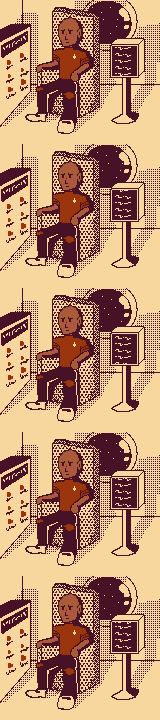
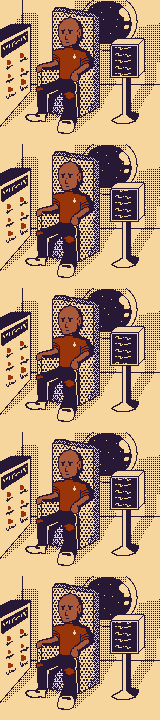
far from great but it does... something

diff --git a/src/stage/systems/mod.rs b/src/stage/systems/mod.rs
@@ -15,7 +15,7 @@ use crate::{
     globals::DEBUG_STAGESTEP,
     resource::{asteroid::STAGE_ASTEROID_DATA, debug::STAGE_DEBUG_DATA, park::STAGE_PARK_DATA},
     systems::{audio::VolumeSettings, camera::CameraPos, spawn::spawn_music},
-    GBInput,
+    GBInput, cinemachine::cinemachine::CinemachineScene,
 };
 
 use self::spawn::{spawn_destructible, spawn_enemy, spawn_object, spawn_pickup};
@@ -229,7 +229,27 @@ pub fn update_stage(
                             }
                             spawnsVal = Some(spawns);
                         }
-                        StageStep::Cinematic { .. } => {}
+                        StageStep::Cinematic { cinematic, ..} => {
+                            let max_duration = Some(cinematic.clip.waitInSeconds);
+                            
+                            if let Some(duration) = max_duration {
+                            } else {
+                                // DEBUG
+
+                                if DEBUG_STAGESTEP {
+                                    let mut duration = 0.;
+                                    if max_duration.is_some() {
+                                        duration = max_duration.unwrap();
+                                    }
+                                    warn!(
+                                        "================>>>> cinematic complete? {}",
+                                        duration.to_string()
+                                    );
+                                }
+                                step_event_writer.send(StageStepTrigger {});
+                            }
+
+                        },
                     }
 
                     if let Some(spawns) = spawnsVal {
@@ -316,6 +336,8 @@ pub fn read_stage_step_trigger(
     mut stage_progress: ResMut<StageProgress>,
     mut stage_action_timer: ResMut<StageActionTimer>,
     mut stage_data_raw: Res<StageRawData>,
+    mut game_state_next_state: ResMut<NextState<GameState>>,
+    mut current_scene: ResMut<CinemachineScene>,
 ) {
     for _ in event_reader.iter() {
         stage_progress.step += 1;
@@ -339,7 +361,10 @@ pub fn read_stage_step_trigger(
                             stage_action_timer.timer.unpause();
                         }
                     }
-                    StageStep::Cinematic { max_duration, .. } => {
+                    StageStep::Cinematic { cinematic, .. }  => {
+
+                        let max_duration = Some(cinematic.clip.waitInSeconds);
+
                         if let Some(duration) = max_duration {
                             stage_action_timer.timer.reset();
                             stage_action_timer
@@ -347,15 +372,9 @@ pub fn read_stage_step_trigger(
                                 .set_duration(Duration::from_secs_f32(duration.clone()));
                             stage_action_timer.timer.unpause();
                         }
-                    }
-                    StageStep::Cinematic { max_duration, .. } => {
-                        if let Some(duration) = max_duration {
-                            stage_action_timer.timer.reset();
-                            stage_action_timer
-                                .timer
-                                .set_duration(Duration::from_secs_f32(duration.clone()));
-                            stage_action_timer.timer.unpause();
-                        }
+                        
+                        current_scene.0 = Some(cinematic.clone());
+                        game_state_next_state.set(GameState::Cutscene);
                     }
                 }
             }

diff --git a/src/cinemachine/scene_intro.rs b/src/cinemachine/scene_intro.rs
@@ -16,16 +16,64 @@ use lazy_static::lazy_static;
 use super::data::Clip;
 
 lazy_static! {
-    pub static ref INTRO_ANIMATIC: CinemachineData = CinemachineData {
+    pub static ref INTRO_ANIMATIC_0: CinemachineData = CinemachineData {
         name: "intro".to_string(),
         clip: Clip{
-            frame_count: 0,
-            frame_duration_millis: 2000,
-            image_path: "/cinematics/intro/0.png".to_string(),
+            frame_count: 2,
+            frame_duration_millis: 200,
+            image_path: "/cinematics/intro/bald_guy.png".to_string(),
             start_coordinates: Vec2{x:0.0,y:0.0},
             layer_index: 100.0, 
             snd: None,
             waitInSeconds: 3.0,
+        }
+    };
+    pub static ref INTRO_ANIMATIC_1: CinemachineData = CinemachineData {
+        name: "intro".to_string(),
+        clip: Clip{
+            frame_count: 1,
+            frame_duration_millis: 200,
+            image_path: "/cinematics/intro/1.png".to_string(),
+            start_coordinates: Vec2{x:0.0,y:0.0},
+            layer_index: 100.0, 
+            snd: None,
+            waitInSeconds: 4.0,
+        }
+    };
+    pub static ref INTRO_ANIMATIC_2: CinemachineData = CinemachineData {
+        name: "intro".to_string(),
+        clip: Clip{
+            frame_count: 1,
+            frame_duration_millis: 200,
+            image_path: "/cinematics/intro/screaming_scene.png".to_string(),
+            start_coordinates: Vec2{x:0.0,y:0.0},
+            layer_index: 100.0, 
+            snd: None,
+            waitInSeconds: 2.0,
+        }
+    };
+    pub static ref INTRO_ANIMATIC_3: CinemachineData = CinemachineData {
+        name: "intro".to_string(),
+        clip: Clip{
+            frame_count: 1,
+            frame_duration_millis: 200,
+            image_path: "/cinematics/intro/transform.png".to_string(),
+            start_coordinates: Vec2{x:0.0,y:0.0},
+            layer_index: 100.0, 
+            snd: None,
+            waitInSeconds: 2.0,
+        }
+    };
+    pub static ref INTRO_ANIMATIC_4: CinemachineData = CinemachineData {
+        name: "intro".to_string(),
+        clip: Clip{
+            frame_count: 5,
+            frame_duration_millis: 200,
+            image_path: "/cinematics/intro/falling_scene_anim.png".to_string(),
+            start_coordinates: Vec2{x:0.0,y:0.0},
+            layer_index: 100.0, 
+            snd: None,
+            waitInSeconds: 2.0,
         }
     };
 }

diff --git a/src/resource/debug.rs b/src/resource/debug.rs
@@ -1,3 +1,4 @@
+use crate::cinemachine::scene_intro::*;
 use crate::resource::CAMERA_BASE_SPEED;
 use crate::stage::data::{
     ContainerSpawn, DestructibleSpawn, EnemySpawn, MovementDirection, ObjectSpawn, ObjectType,
@@ -89,6 +90,26 @@ pub fn make_steps() -> Vec<StageStep> {
             coordinates: Vec2 { x: 0.0, y: 0.0 },
             base_speed: 8.0,
             spawns: vec![],
+        },
+        StageStep::Cinematic { 
+            resume_conditions: Some(vec![StageActionResumeCondition::CinematicEnd]),
+            cinematic: INTRO_ANIMATIC_0.clone(),
+        },
+        StageStep::Cinematic { 
+            resume_conditions: Some(vec![StageActionResumeCondition::CinematicEnd]),
+            cinematic: INTRO_ANIMATIC_1.clone(),
+        },
+        StageStep::Cinematic { 
+            resume_conditions: Some(vec![StageActionResumeCondition::CinematicEnd]),
+            cinematic: INTRO_ANIMATIC_2.clone(),
+        },
+        StageStep::Cinematic { 
+            resume_conditions: Some(vec![StageActionResumeCondition::CinematicEnd]),
+            cinematic: INTRO_ANIMATIC_3.clone(),
+        },
+        StageStep::Cinematic { 
+            resume_conditions: Some(vec![StageActionResumeCondition::CinematicEnd]),
+            cinematic: INTRO_ANIMATIC_4.clone(),
         },
         StageStep::Stop { 
             resume_conditions: Some(vec![]), 

diff --git a/src/stage/mod.rs b/src/stage/mod.rs
@@ -36,7 +36,7 @@ use self::{
         StageUiPlugin,
     },
 };
-use crate::{game::events::GameOver, AppState};
+use crate::{game::events::GameOver, AppState, cinemachine::{cinemachine::CinemachineScene, render_cutscene}};
 
 #[derive(SystemSet, Debug, Hash, PartialEq, Eq, Clone)]
 pub struct LoadingSystemSet;
@@ -61,6 +61,7 @@ impl Plugin for StagePlugin {
             .init_resource::<StageTime>()
             .init_resource::<Score>()
             .init_resource::<StageProgress>()
+            .init_resource::<CinemachineScene>()
             .add_plugins(EnemyPlugin)
             .add_plugins(PlayerPlugin)
             .add_plugins(ScorePlugin)
@@ -129,6 +130,7 @@ impl Plugin for StagePlugin {
                     .run_if(in_state(AppState::Game)),
             )
             .add_systems(Update, pause_menu_renderer.run_if(in_state(AppState::Game)))
+            .add_systems(Update, render_cutscene.run_if(in_state(AppState::Game)))
             .add_systems(OnEnter(AppState::Game), resume_game);
     }
 }

diff --git a/scripts/process-gfx/src/main.rs b/scripts/process-gfx/src/main.rs
@@ -38,7 +38,22 @@ struct Config {
 }
 
 fn main() {
-    let data_str = fs::read_to_string(format!("{}{}", RESOURCES_GFX_PATH, "data.toml")).unwrap();
+    let mut data_str = "".to_string();
+    
+    if cfg!(windows) {
+        println!("this is windows");
+        let mut root = std::env::current_dir().unwrap();
+        root.push(RESOURCES_GFX_PATH);
+        println!("{}", root.as_path().to_str().unwrap().to_string());
+
+        let win_path = format!("{}{}", root.as_path().to_str().unwrap().to_string(), "data.toml");
+        println!("WINDOWS PATH: {}", win_path);
+
+        data_str = fs::read_to_string(format!("{}{}", root.as_path().to_str().unwrap().to_string(), "data.toml")).unwrap();
+    } else {
+        data_str = fs::read_to_string(format!("{}{}", RESOURCES_GFX_PATH, "data.toml")).unwrap();
+    }
+
     let data: Config = toml::from_str(&data_str).unwrap();
 
     let palette_image: ImageBuffer<Rgba<u8>, Vec<u8>> =

diff --git a/src/main.rs b/src/main.rs
@@ -16,6 +16,7 @@ extern crate lazy_static;
 use crate::globals::{DEFAULT_MASTER_VOLUME, DEFAULT_MUSIC_VOLUME, DEFAULT_SFX_VOLUME};
 use bevy::prelude::*;
 use bevy_framepace::*;
+use cinemachine::cinemachine::CurrentClipInfo;
 use globals::{DEFAULT_CROSSHAIR_INDEX, SCREEN_RESOLUTION};
 use leafwing_input_manager::{prelude::InputManagerPlugin, Actionlike};
 use seldom_pixel::prelude::*;
@@ -76,6 +77,7 @@ fn main() {
         DEFAULT_MUSIC_VOLUME,
         DEFAULT_SFX_VOLUME,
     ))
+    .insert_resource(CurrentClipInfo{ index: 0, isRendered: false, hasFinished: false })
     .add_state::<AppState>()
     // .add_plugins(TransitionVenetianPlugin)
     // .add_plugins(CutscenePlugin)

diff --git a/src/resource/park.rs b/src/resource/park.rs
@@ -1,4 +1,3 @@
-use crate::cinemachine::scene_intro::INTRO_ANIMATIC;
 use crate::resource::CAMERA_BASE_SPEED;
 use crate::stage::data::{
     ContainerSpawn, DestructibleSpawn, EnemySpawn, MovementDirection, ObjectSpawn, ObjectType,
@@ -120,7 +119,7 @@ pub fn make_steps() -> Vec<StageStep> {
         },
         StageStep::Stop { 
             resume_conditions: Some(vec![]), 
-            max_duration: Some(13.0), 
+            max_duration: Some(3.0), 
             spawns: vec![] 
         },
         StageStep::Movement {

diff --git a/src/stage/data.rs b/src/stage/data.rs
@@ -250,8 +250,8 @@ pub enum StageActionResumeCondition {
 pub enum StageStep {
     Cinematic {
         resume_conditions: Option<Vec<StageActionResumeCondition>>,
-        max_duration: Option<f32>,
-        cinematic: CinemachineData,
+        //wait after completing cinematic
+        cinematic: CinemachineData
     },
     Movement {
         coordinates: Vec2,
